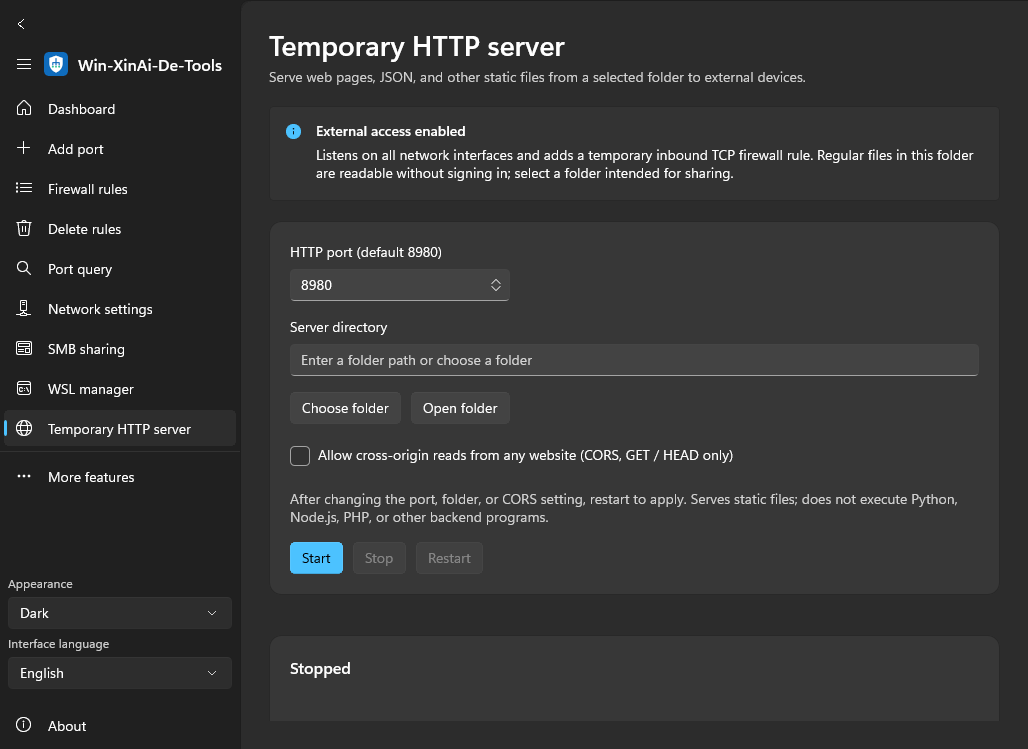
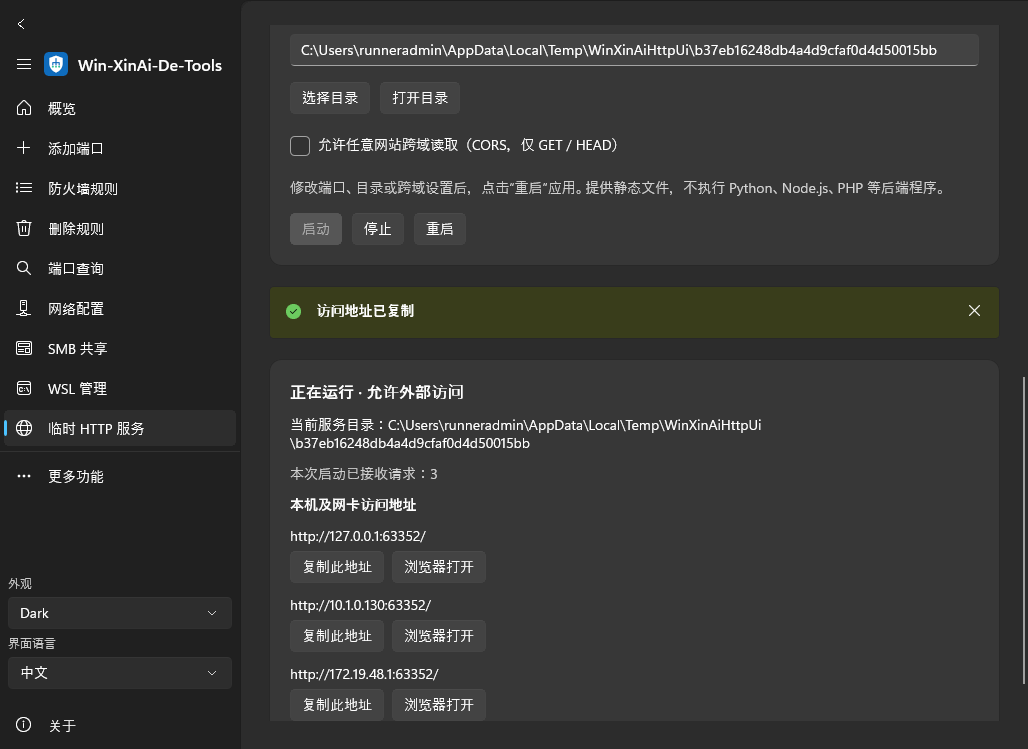
Document Windows HTTP discovery verification with native screenshots

diff --git a/docs/AUDIT-1.9.0.md b/docs/AUDIT-1.9.0.md
@@ -13,3 +13,5 @@ Scope: separate address actions, local HTTP detection, native-page lifecycle, an
 Validation includes 92 .NET tests, with real IPv4/IPv6 listener enumeration, Windows PID checks, varied HTTP statuses, silent/non-HTTP sockets, cancellation, duplicate suppression, unavailable processes, and proof that redirects/bodies are not consumed. The Windows packaged GUI harness checks individual clipboard URLs, discovery before managed startup, an independent HTTP fixture, automatic/manual refresh, restart/stop stale-address removal, and the existing lifecycle. Windows CI additionally runs firewall integration, the 168-combination page/theme/language/size matrix, dependency audits, native helper tests and all three architecture builds/installers.
 
 Limits: only plain HTTP using an IP Host header is detected. HTTPS-only, hostname-only and slow services may be absent. HEAD probes can appear in target access logs. Browser/Explorer launch, physical x86/ARM64 execution and public routing remain environment-specific manual checks. This review is not a penetration test.
+
+Candidate evidence: [Windows verification run](https://github.com/logdns/Win-XinAi-De-Tools/actions/runs/34336683278) passed the test and native-helper jobs, all three portable builds, and the x64 GUI checks. Its startup log records both `Temporary HTTP UI lifecycle PASSED` (including clipboard/discovery checks) and `UI smoke PASSED: 168`. The guide screenshots are captured from this packaged application. The version-tag workflow repeats all gates before publishing.

diff --git a/docs/TEMPORARY-HTTP.md b/docs/TEMPORARY-HTTP.md
@@ -13,6 +13,8 @@ Open **Temporary HTTP server / 临时 HTTP 服务** in the sidebar or More featu
 
 ## Existing local HTTP servers / 本机已开启的 HTTP 服务
 
+![Detected local HTTP services](screenshots/temporary-http-discovery.png)
+
 进入页面后，顶部自动列出本机已响应 HTTP 的地址，显示端口、HTTP 状态码、PID 和可读取的进程名称。每条地址可单独复制或打开；点击 **刷新检测** 重新检测。启动、停止或重启本工具的服务后也会刷新。列表用“本工具启动”标识当前受控实例；其他应用的服务仅显示，不会被停止或修改。
 
 Discovery reads the Windows IPv4/IPv6 TCP listener tables and sends `HEAD /` to their local addresses (wildcard binds use loopback). Any valid HTTP status, including redirects, authentication errors, 404, and 405, confirms HTTP. Multiple addresses can belong to one server. Process details are best effort and represent the listener snapshot, not an ownership guarantee after the scan.
